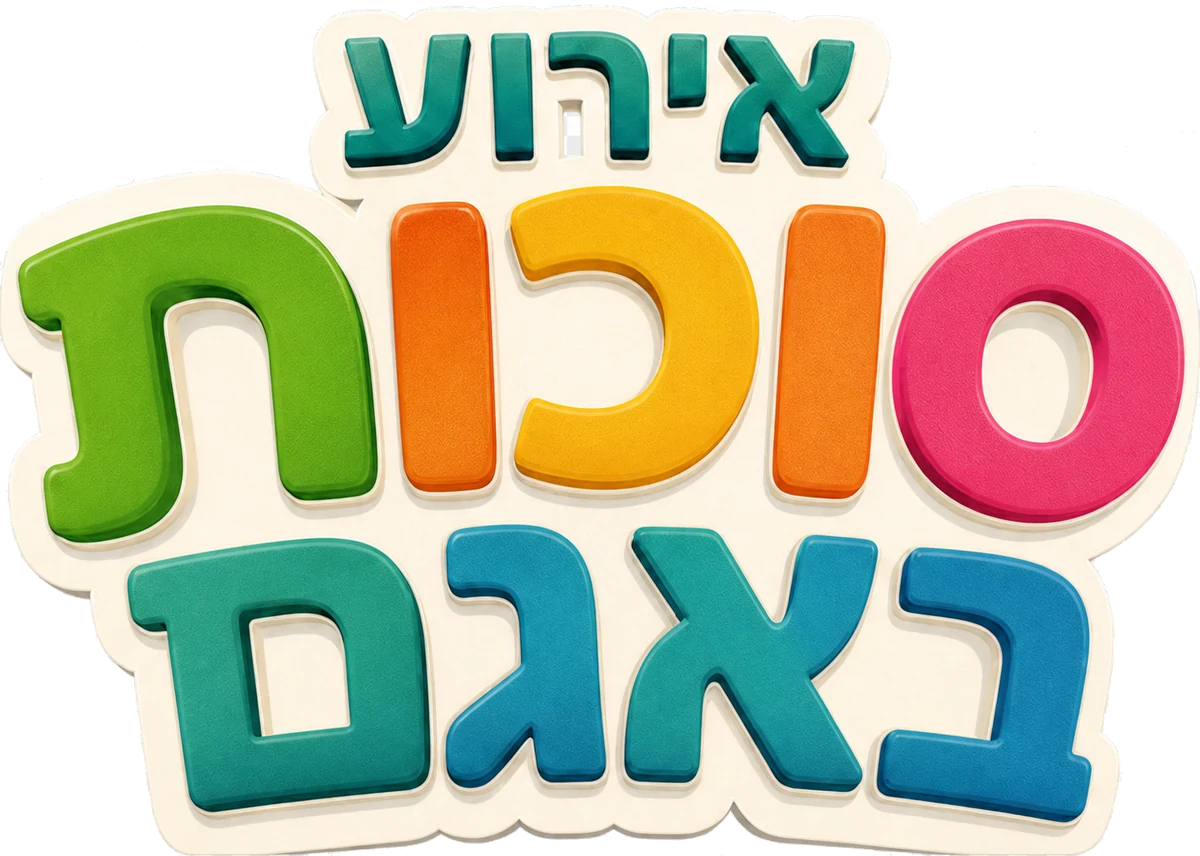
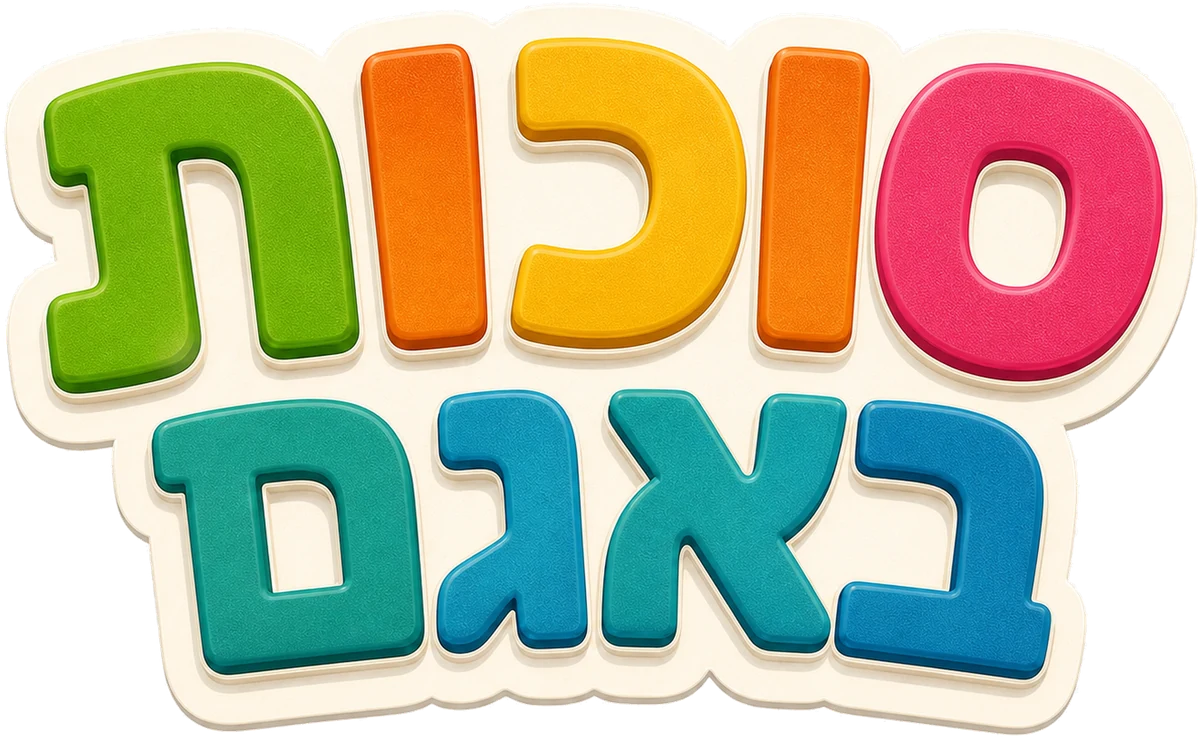
Final title artwork, Google Maps on desktop, hero and lineup spacing

diff --git a/app/page.tsx b/app/page.tsx
@@ -23,6 +23,8 @@ import { ScrollEffects } from './scroll-effects';
 
 const WAZE_URL =
   'https://www.waze.com/ul?q=%D7%A4%D7%90%D7%A8%D7%A7%20%D7%A0%D7%97%D7%9C%20%D7%91%D7%90%D7%A8%20%D7%A9%D7%91%D7%A2&navigate=yes';
+const MAPS_URL =
+  'https://www.google.com/maps/search/?api=1&query=%D7%A4%D7%90%D7%A8%D7%A7%20%D7%A0%D7%97%D7%9C%20%D7%91%D7%90%D7%A8%20%D7%A9%D7%91%D7%A2';
 const ICS_URL = '/event/sukkot-baagam.ics';
 
 const vars = (v: Record<string, string | number>) => v as CSSProperties;
@@ -127,7 +129,7 @@ export default function Home() {
               src="/event/event-title.webp"
               alt="סוכות באגם"
               width={1200}
-              height={856}
+              height={738}
               priority
             />
             <span>באר שבע · 29.9</span>
@@ -146,7 +148,7 @@ export default function Home() {
             </a>
             <a
               className="btn btn--primary btn--sm hide-mobile"
-              href={WAZE_URL}
+              href={MAPS_URL}
               target="_blank"
               rel="noreferrer"
             >
@@ -178,7 +180,7 @@ export default function Home() {
                   src="/event/event-title.webp"
                   alt="אירוע סוכות באגם"
                   width={1200}
-                  height={856}
+                  height={738}
                   priority
                 />
               </h1>
@@ -208,8 +210,18 @@ export default function Home() {
               </ul>
 
               <div className="hero-actions">
+                {/* desktop opens Google Maps, phones keep Waze */}
                 <a
-                  className="btn btn--primary"
+                  className="btn btn--primary hide-mobile"
+                  href={MAPS_URL}
+                  target="_blank"
+                  rel="noreferrer"
+                >
+                  <Navigation aria-hidden="true" />
+                  ניווט לפארק
+                </a>
+                <a
+                  className="btn btn--primary hide-desktop"
                   href={WAZE_URL}
                   target="_blank"
                   rel="noreferrer"
@@ -262,7 +274,7 @@ export default function Home() {
                   על הבמה
                 </p>
                 <h2 id="lineup-title" className="section-title">
-                  כוכבים שהילדים מכירים.
+                  כוכבים שהילדים אוהבים.
                 </h2>
               </header>
 
@@ -441,7 +453,16 @@ export default function Home() {
             </p>
             <div className="finale-actions">
               <a
-                className="btn btn--yellow"
+                className="btn btn--yellow hide-mobile"
+                href={MAPS_URL}
+                target="_blank"
+                rel="noreferrer"
+              >
+                <Navigation aria-hidden="true" />
+                ניווט לפארק
+              </a>
+              <a
+                className="btn btn--yellow hide-desktop"
                 href={WAZE_URL}
                 target="_blank"
                 rel="noreferrer"

diff --git a/app/globals.css b/app/globals.css
@@ -148,10 +148,6 @@ button {
   margin-inline: auto;
 }
 
-.hide-mobile {
-  display: inline-flex;
-}
-
 /* =====================================================================
    Buttons
    ===================================================================== */
@@ -506,7 +502,8 @@ button {
 }
 
 .cast-miki {
-  inset-inline-end: 0;
+  /* past the column edge, so she overlaps the pups less */
+  inset-inline-end: -17%;
   height: 100%;
   animation: rise 1s 0.2s var(--ease) both;
 }
@@ -678,7 +675,7 @@ button {
   position: absolute;
   z-index: 1;
   bottom: 0;
-  inset-inline-end: -8%;
+  inset-inline-end: -2%;
   width: auto;
   height: 94%;
   filter: drop-shadow(0 18px 26px rgb(0 0 0 / 28%));
@@ -686,7 +683,7 @@ button {
 }
 
 .star-figure--paw {
-  inset-inline-end: -4%;
+  inset-inline-end: 0;
   height: 84%;
 }
 
@@ -1038,6 +1035,17 @@ button {
 /* =====================================================================
    Responsive
    ===================================================================== */
+/* =====================================================================
+   Responsive helpers (after the components so they win the cascade)
+   ===================================================================== */
+.hide-mobile {
+  display: inline-flex;
+}
+
+.hide-desktop {
+  display: none;
+}
+
 @media (max-width: 1100px) {
   .header-nav {
     display: none;
@@ -1105,6 +1113,10 @@ button {
 
   .hide-mobile {
     display: none;
+  }
+
+  .hide-desktop {
+    display: inline-flex;
   }
 
   .header-inner {
